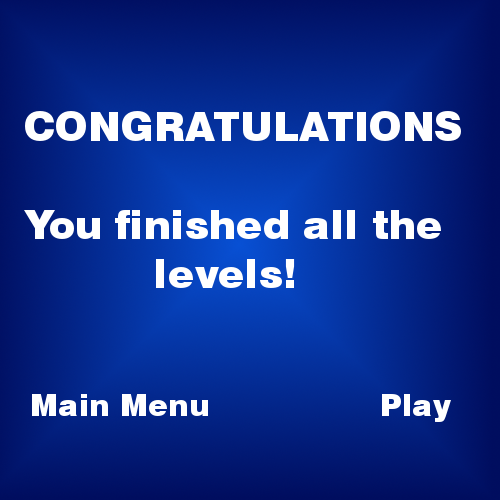
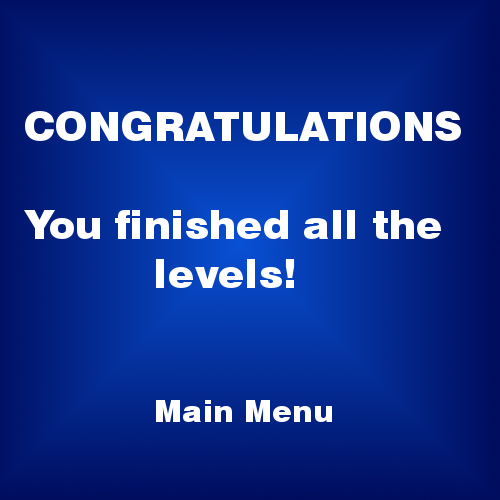
Modified location of marbles

Changed region(s): [[0.06, 0.78, 0.69, 0.87], [0.75, 0.78, 0.9, 0.84]]

diff --git a/HitThemOut.py b/HitThemOut.py
@@ -7,7 +7,7 @@ RADIUS = 10
 offsetX = 250
 offsetY = 250
 
-images = ['Images/Main_Menu.png','Images/Background.png','Images/Paused.png','Images/HowToPlay.png','Images/LevelSelect.png','Images/blue.png','Images/red.png','Images/LevelSelect_BLACK.png','Images/Next_Level.png']    
+images = ['Images/Main_Menu.png','Images/Background.png','Images/Paused.png','Images/HowToPlay.png','Images/LevelSelect.png','Images/blue.png','Images/red.png','Images/LevelSelect_BLACK.png','Images/Next_Level.png','Images/GameFinished.png']
 levels = [[(-100,0),(100,0)],
           [(-100,0),(0,0),(100,0)],
           [(0,0),(0,-100),(sqrt(3)*100,50),(-sqrt(3)*100,50)],
@@ -21,9 +21,15 @@ levels = [[(-100,0),(100,0)],
           [(-209,8),(-169,15),(-137,26),(-177,64),(-217,82),(-187,126),(-117,133),(-45,129),(-29,71),(-23,17),(13,-21),(69,-55),(117,-74),(131,-143),(181,-144),(173,-110),(211,-65),(195,-7),(139,-22)],
           [(-185,142),(-129,67),(83,43),(157,64),(167,5),(75,-37),(133,-83),(-95,-72),(-159,-57),(-147,-127)],
           [(-105,163),(-91,114),(-129,-78),(81,-76),(-21,-188),(43,84)],
-          [(-181,23),(-93,-12),(-13,27),(51,-48),(5,-134),(105,17),(129,-116),(209,-106),(213,-28),(169,17),(41,69),(-1,149),(-107,163),(-125,100),(-179,127)]
+          [(-181,23),(-93,-12),(-13,27),(51,-48),(5,-134),(105,17),(129,-116),(209,-106),(213,-28),(169,17),(41,69),(-1,149),(-107,163),(-125,100),(-179,127)],
 #12
-          
+          [(-192,-169),(-111,-96),(-11,-170),(54,-90),(164,-181),(182,-93),(164,51),(-90,34),(-8,43),(46,44),(-117,171),(51,154)],
+          [(-197,-99),(-115,-152),(-59,-61),(96,-58),(207,5),(106,37),(-27,45),(-82,137),(-163,213),(-21,205),(112,138),(217,161)],
+          [(-146,-200),(-199,-118),(-73,-79),(18,-158),(59,-48),(119,17),(209,16),(208,-48),(-44,42),(33,62),(49,158),(-85,133),(158,200),(81,240),(-187,151),(-218,55),],#cygnus
+          [(-228,30),(-66,25),(1,-59),(89,-34),(47,22),(134,-105),(189,-135),(193,-203),(-60,-139),(85,115),(182,182)],#Cygnus
+#16
+          [(-203,201),(-183,144),(-138,158),(-153,188),(-167,-59),(-146,-170),(-13,-107),(-52,4),(-4,102),(86,129),(158,92),(153,-32),(197,-134)],#draco
+          [(-196,3),(-94,28),(-92,104),(-196,133),(0,83),(43,25),(195,44),(150,170),(120,-55),(180,-72),(157,-179),(84,-124)]#pegasus
           ]
 levelClicks = [3,3,3,3,3,3,3,3,3,3,3,3,3,3,3,3,3,3]
 MAIN_MENU = 0
@@ -214,7 +220,7 @@ def main():
     clickCount = 0
     ball = 0
     
-    gameState = MAIN_MENU
+    gameState = GAME_FINISHED
     currentLevel = 0
     levelsUnlocked = 0
     ballSet = []
@@ -286,6 +292,7 @@ def main():
                         return
                     elif event.type == pygame.MOUSEBUTTONDOWN and not mouseHeld:
                         mousePos = pygame.mouse.get_pos()
+#                        ballSet.append(Ball(1,MovingMass(1,Vector2D(mousePos[0]-offsetX,mousePos[1]-offsetY),Vector2D(0,0),-2.5)))
                         if clickCount:
                             hit(ball,Vector2D((mousePos[0]-ball.getPosition().getX()-offsetX)/1,(mousePos[1]-ball.getPosition().getY()-offsetY)/1))
                             clickCount = 0
@@ -300,6 +307,11 @@ def main():
                 keys = pygame.key.get_pressed()
                 if keys[K_p] == True and not pisHeld:
                     #printValues(ballSet)
+                    s = '['
+                    for ball in ballSet:
+                        s += '('+str(int(ball.getPosition().getX()))+','+str(int(ball.getPosition().getY()))+'),'
+                    s+= ']'
+                    print s
                     isPaused = not isPaused
                     pisHeld = True
                 if keys[K_p] == False:
@@ -368,7 +380,6 @@ def main():
                     gameState = GAME_FINISHED
                 nextLevel = time.time() +2
                 ballSet = newLevel(currentLevel)
-
 #----------------IN NEXT LEVEL---------------#
         elif (gameState == NEXT_LEVEL):
             for event in pygame.event.get():
@@ -380,7 +391,11 @@ def main():
             if nextLevel-time.time() < 0:
                 gameState = GAME
 # Display
-            screen.blit(images[NEXT_LEVEL],(0,0))
+            x = (500 * ((3-(nextLevel-time.time()))/3.0))
+            if x  > 500:
+                x = 500
+            screen.blit(images[GAME],(0,0))
+            screen.blit(images[NEXT_LEVEL],(0,0),(0,0,x,500))
 
 
 #-----------------HOW TO PLAY-----------------#
@@ -401,7 +416,7 @@ def main():
 # Display
             screen.blit(images[HOW_TO_PLAY],(0,0))
 
-#-----------------GAME COMPLETE-----------------#
+#-----------------GAME FINISHED-----------------#
         elif (gameState == GAME_FINISHED):
             for event in pygame.event.get():
                 if event.type == pygame.QUIT:
@@ -411,11 +426,11 @@ def main():
                 if event.type == pygame.MOUSEBUTTONDOWN:
                     mousePos = pygame.mouse.get_pos()
                     print mousePos
-                    #if mousePos[0] > 25 and mousePos[0] <= 201 and mousePos[1] > 429 and mousePos[1] <= 466:
-                        
+                    if mousePos[0] > 138 and mousePos[0] <= 347 and mousePos[1] > 395 and mousePos[1] <= 429:
+                        gameState = MAIN_MENU
                     #if mousePos[0] > 25 and mousePos[0] <= 201 and mousePos[1] > 429 and mousePos[1] <= 466:
 # Display
-            screen.blit(images[GAME_FINISHED),(0,0))
+            screen.blit(images[GAME_FINISHED],(0,0))
 
         
         pygame.display.flip()
